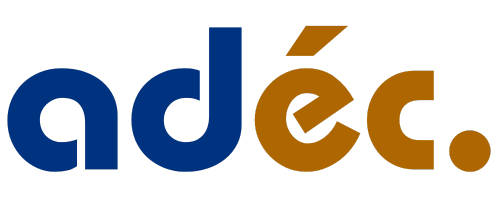
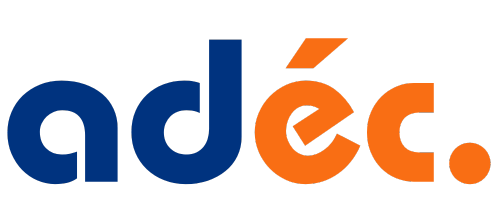
Agrego modificaciones

diff --git a/css/styles.css b/css/styles.css
@@ -1,5 +1,7 @@
 :root {
+    --naranjaMuyClaro: #f5efe7;
     --naranja: #ad6600;
+    --naranja2: #F96E14;
     --blanco: #fefefe;
     --celesteClaro: #90ccea;
     --celeste: #00b2cd;
@@ -38,7 +40,7 @@ body {
 }
 
 .boton {
-    background: var(--naranja);
+    background: var(--naranja2);
     padding: 1rem 2rem;
     display: flex;
     align-items: center;
@@ -111,7 +113,7 @@ header.abajo {
 }
 @media (max-width: 600px) {
     .logo {
-        height: 50px;
+        height: 60px;
     }
 }
 @media (min-width: 600px) and (max-width: 768px) {
@@ -121,11 +123,11 @@ header.abajo {
 }
 .nombre {
     width: auto;
-    height: 50px;
+    height: 60px;
 }
 @media (max-width: 600px) {
     .nombre {
-        height: 30px;
+        height: 40px;
     }
 }
 @media (min-width: 600px) and (max-width: 768px) {
@@ -483,7 +485,7 @@ header.abajo {
     color: var(--azulClaro);
 }
 .cardServicios__boton {
-    background-color: var(--naranja);
+    background-color: var(--naranja2);
     padding: 1rem 1.5rem;
     transition: 0.5s ease;
     width: 30%;
@@ -539,7 +541,7 @@ header.abajo {
     }
 }
 .cultura__texto--titulo span {
-    color: var(--naranja);
+    color: var(--naranja2);
     font-weight: 600;
 }
 .cultura__contenedor {
@@ -567,6 +569,13 @@ header.abajo {
     gap: .5rem;
     padding: 1rem;
     color: var(--negro);
+}
+@media (max-width: 600px) {
+    .cultura__caja {
+        width: 100%;
+        text-align: center;
+    }
+  
 }
 
 .vision {
@@ -607,6 +616,7 @@ header.abajo {
   .contanedor__testimonios {
     flex-direction: column;
     padding: 0;
+    gap: 2rem;
   }
 }
 .testimonios__titulo {
@@ -617,6 +627,7 @@ header.abajo {
 @media (max-width: 600px) {
     .testimonios__titulo {
         font-size: 1.3rem;
+        padding-bottom: 2rem;
     }
 }
 .snip1533 {
@@ -640,7 +651,13 @@ header.abajo {
     border-top: 5px solid var(--naranja);
     color: var(--blanco);
   }
-  
+  @media (max-width: 600px) {
+    .snip1533 {
+        width: 100%;
+        margin: 0;
+    }
+    
+  }
   .snip1533 *,
   .snip1533 *:before {
     -webkit-box-sizing: border-box;
@@ -714,6 +731,7 @@ header.abajo {
     .carruselMarcas__titulo {
         font-size: 1.3rem;
         text-align: center;
+        padding: 0 2rem;
     }
 }
 @keyframes scroll {
@@ -732,6 +750,12 @@ header.abajo {
     position: relative;
     width: 100%;
     padding: 3rem 0;
+}
+@media (max-width: 600px) {
+    .slider {
+        padding: 1rem 0;
+    }
+  
 }
 .slider::before, .slider::after {
     background: linear-gradient(to right, rgba(255, 255, 255, 1) 0%, rgba(255, 255, 255, 0) 100%);
@@ -819,7 +843,18 @@ header.abajo {
 }
 .formulario__titulo {
     font-size: 1.6rem;
-    color: var(--naranja);
+    color: var(--naranja2);
+}
+@media (max-width: 600px) {
+    .formulario__titulo {
+        text-align: center;
+    }
+}
+@media (max-width: 600px) {
+    .formulario__subtitulo {
+        text-align: center;
+        padding-bottom: 1rem;
+    } 
 }
 .form__inputs {
     display: flex;
@@ -829,6 +864,12 @@ header.abajo {
     gap: 1rem;
     width: 300px;
     height: 100%;
+}
+@media (max-width: 600px) {
+    .form__inputs {
+        width: 250px;
+    }
+  
 }
 @media (min-width: 600px) and (max-width:768px) {
     .form__inputs {
@@ -857,7 +898,7 @@ border: 2px solid var(--azul);
     cursor: pointer;
     border: none;
     padding: 1rem 2rem;
-    background-color: var(--naranja);
+    background-color: var(--naranja2);
     color: white;
     font-weight: 700;
     transition: 0.5s ease;
@@ -930,6 +971,12 @@ border: 2px solid var(--azul);
   .gmail {
     margin-left: 53px;
   }
+  @media (max-width: 600px) {
+    .place, .phone, .gmail {
+        margin-left: 20px;
+    }
+    
+  }
   @media (min-width: 600px) and (max-width: 768px) {
     .place, .phone, .gmail {
         margin-left: 20px;
@@ -957,7 +1004,7 @@ border: 2px solid var(--azul);
     padding: 0;
   }
   .social-media-list p {
-    color: var(--blanco);
+    color: var(--naranja2);
   }
   .social-media-list a {
     color: var(--blanco);

diff --git a/index.html b/index.html
@@ -117,7 +117,7 @@
     </section>
     <section class="cultura">
         <div class="cultura__texto">
-            <p class="cultura__texto--titulo">En Adéc, <span>transformamos sueños en realidades</span>.<br> Confía en
+            <p class="cultura__texto--titulo">En adéc, <span>transformamos sueños en realidades</span>.<br> Confía en
                 nosotros para
                 llevar a cabo tus proyectos.</p>
         </div>
@@ -131,7 +131,7 @@
             <div class="cultura__caja vision">
                 <img src="img/vision.png" alt="">
                 <p class="cultura__caja--titulo">Visión</p>
-                <p>Ser líderes en innovación y calidad en el campo de los servicios de riego y electricidad residencial.
+                <p>Ser líderes en innovación y calidad en el campo de los servicios de riego y electricidad industrial.
                 </p>
             </div>
             <div class="cultura__caja valores">
@@ -264,7 +264,7 @@
                                 href="tel:1-212-555-5555" title="Give me a call">(212) 555-2368</a></span></i></li>
 
                 <li class="list-item"><i class="fa fa-envelope fa"><span class="contact-text gmail"><a href="mailto:#"
-                                title="Send me an email">hitmeup@gmail.com</a></span></i></li>
+                                title="Send me an email">adecmza@gmail.com</a></span></i></li>
 
             </ul>
         </div>
